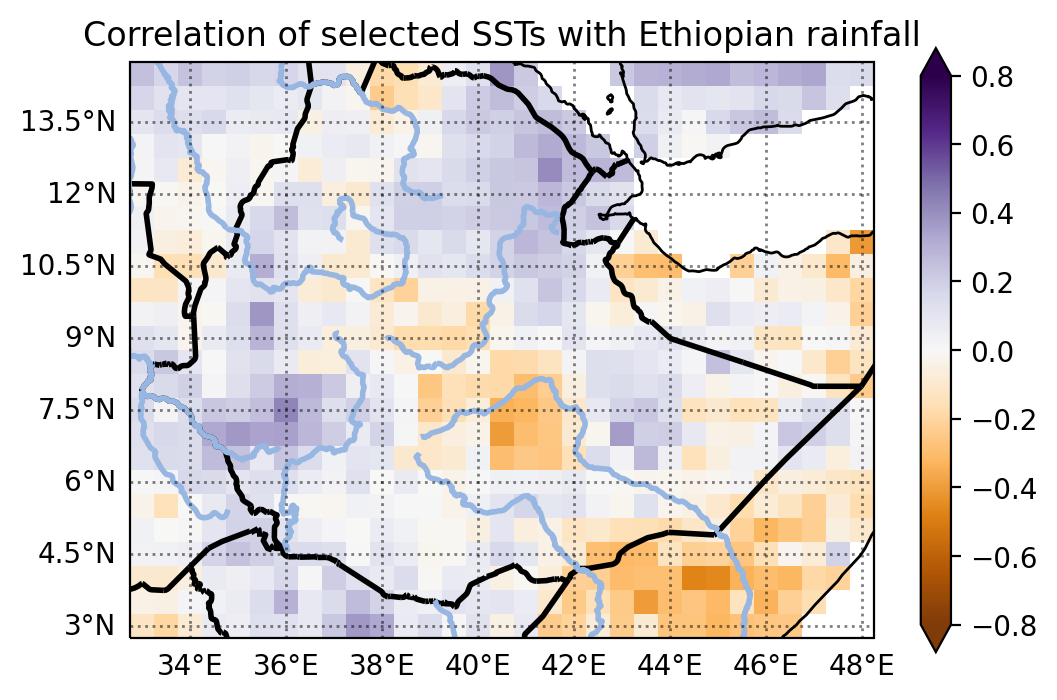
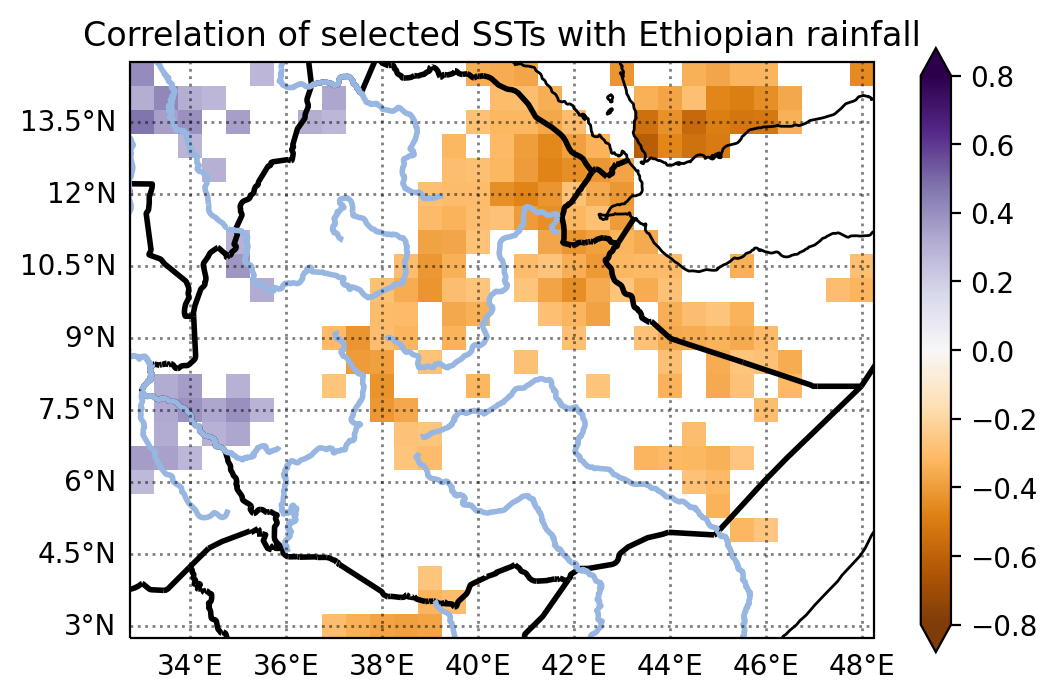
dec 7

diff --git a/code/workshop_correls_new.py b/code/workshop_correls_new.py
@@ -62,7 +62,7 @@ iodw = gsst.sel(latitude=slice(10,-10),longitude=slice(50,70)).mean(dim=('latitu
 iode = gsst.sel(latitude=slice(0,-10),longitude=slice(90,110)).mean(dim=('latitude','longitude'))
 iodi_mean = iodw - iode
 
-sst_mean = esst_mean
+sst_mean = iodi_mean
 
 #%%
 ##Step 4: calculate correlation of mean SST with Ethiopian rainfall
@@ -79,15 +79,15 @@ sstclim = sst_mean.groupby('time.month').mean('time')
 sst_mean_anom = sst_mean.groupby('time.month') - sstclim
 
 #Correlation of seasonal anomaly means
-p_eth_seas_anom = (p_eth_anom.sel(time=p_eth_anom.time.dt.month.isin([6,7,8,9]))).groupby('time.year').mean('time')
-sst_mean_seas_anom = (sst_mean_anom.sel(time=sst_mean_anom.time.dt.month.isin([3,4,5]))).groupby('time.year').mean('time')
+p_eth_seas_anom = (p_eth_anom.sel(time=p_eth_anom.time.dt.month.isin([3,4]))).groupby('time.year').mean('time')
+sst_mean_seas_anom = (sst_mean_anom.sel(time=sst_mean_anom.time.dt.month.isin([3,4]))).groupby('time.year').mean('time')
 correl_map = np.apply_along_axis(spearmanr,0, p_eth_seas_anom,sst_mean_seas_anom)
 # correl_map isn't an xarray - let's make it one
 da_r = xr.DataArray(data=correl_map[0],dims=["lat","lon"],coords={"lat":p_eth.lat,"lon":p_eth.lon})
 da_p = xr.DataArray(data=correl_map[1],dims=["lat","lon"],coords={"lat":p_eth.lat,"lon":p_eth.lon})
 
 #Plot correlation values where pvalues are less than 0.1
-da_r_sig = da_r#.where(da_p<0.1)
+da_r_sig = da_r.where(da_p<0.1)
 ax = plt.axes(projection=ccrs.PlateCarree())
 ax.coastlines()
 ax.add_feature(cartopy.feature.BORDERS,lw=2)
